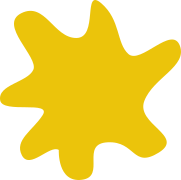
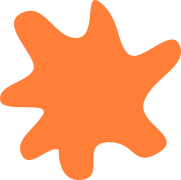
item goal rendering

diff --git a/src/main/java/org/rezrov/roboworld/Environment.java b/src/main/java/org/rezrov/roboworld/Environment.java
@@ -1,7 +1,9 @@
 package org.rezrov.roboworld;
 
 import java.util.Collection;
+import java.util.HashMap;
 import java.util.HashSet;
+import java.util.Map;
 
 /**
  * This class represents an environment in which a robot operates. This includes
@@ -30,11 +32,15 @@ public class Environment {
    private boolean[][] rightWalls;
    private boolean[][] bottomWalls;
 
+   private Map<Coord2D, Item> items = new HashMap<>();
+
+   private Map<Coord2D, Item> itemGoals = new HashMap<>();
+
    // Cell item contents (or NONE)
-   private Item[][] items;
+   // private Item[][] items;
 
    // Cell item goal (or NONE)
-   private Item[][] itemGoals;
+   // private Item[][] itemGoals;
 
    /**
     * Create an empty environment of the given size.
@@ -50,61 +56,70 @@ public class Environment {
       rightWalls = new boolean[width - 1][height];
       bottomWalls = new boolean[width][height - 1];
 
-      items = new Item[width][height];
-      itemGoals = new Item[width][height];
-      for (int x = 0; x < width; x++) {
-         for (int y = 0; y < height; y++) {
-            items[x][y] = itemGoals[x][y] = Item.NONE;
-         }
-      }
    }
 
    // Add an item goal location to
-   public void addItemGoalLocation(Item item, Coord2D location) {
-      if (itemGoals[location.x][location.y] != Item.NONE) {
+   public void addItemGoal(Coord2D location, Item item) {
+      if (itemGoals.putIfAbsent(location, item) != null) {
          // Since we should only be adding item goals at scenario setup, this is a hard
          // error.
-         throw new IllegalStateException("Attempt to put two item goals in the same location");
+         throw new AssertionError("Attempt to put two item goals in the same location");
       }
    }
 
-   public boolean addItemLocation(Item item, Coord2D location) {
-      if (items[location.x][location.y] != Item.NONE) {
-         // The robot can try to drop things in squares that already have a thing, and we
-         // want to crash the robot in that case, which is why this is a soft error.
-         return false;
+   // Attempt to put an item at the given location. If an item is already at that
+   // location, return false and leave the existing item unchanged. Otherwise,
+   // return
+   // true.
+   public boolean putItem(Coord2D location, Item item) {
+      return itemGoals.putIfAbsent(location, item) == null;
+   }
+
+   // Take the item at the given location and remove it from the environment.
+   // Returns NONE if there was no item at that location.
+   public Item takeItem(Coord2D location) {
+      Item ret = items.getOrDefault(location, Item.NONE);
+      if (ret != Item.NONE) {
+         items.remove(location);
       }
-      items[location.x][location.y] = item;
-      return true;
+      return ret;
    }
 
    public Item itemAt(Coord2D location) {
-      return items[location.x][location.y];
+      return items.getOrDefault(location, Item.NONE);
    }
 
-   // Returns true if all the items in the environment are
+   // Returns true iff all the items in the environment are at locations which
+   // are goals for that item.
    public boolean allItemsAtGoals() {
-      for (int x = 0; x < width; x++) {
-         for (int y = 0; y < height; y++) {
-            if (items[x][y] != Item.NONE &&
-                  items[x][y] != itemGoals[x][y]) {
-               return false;
-            }
+      // For each item, the corresponding itemGoal map should have an entry with
+      // the same item.
+      for (var entry : items.entrySet()) {
+         assert entry.getValue() != Item.NONE;
+         if (itemGoals.getOrDefault(entry.getKey(), Item.NONE) != entry.getValue()) {
+            return false;
          }
       }
       return true;
    }
 
+   // Returns true iff all the items goals contain corresponding items.
    public boolean allItemsGoalsHaveItems() {
-      for (int x = 0; x < width; x++) {
-         for (int y = 0; y < height; y++) {
-            if (itemGoals[x][y] != Item.NONE &&
-                  items[x][y] != itemGoals[x][y]) {
-               return false;
-            }
+      for (var entry : itemGoals.entrySet()) {
+         assert entry.getValue() != Item.NONE;
+         if (items.getOrDefault(entry.getKey(), Item.NONE) != entry.getValue()) {
+            return false;
          }
       }
       return true;
+   }
+
+   public Map<Coord2D, Item> items() {
+      return items;
+   }
+
+   public Map<Coord2D, Item> itemGoals() {
+      return itemGoals;
    }
 
    /** 

diff --git a/src/main/java/org/rezrov/roboworld/WorldPanel.java b/src/main/java/org/rezrov/roboworld/WorldPanel.java
@@ -36,10 +36,6 @@ public class WorldPanel extends JPanel {
    // Robot sprite.
    private PositionedWorldDrawable robotSprite;
 
-   // private PositionedWorldDrawable robotSprite = new
-   // WorldStaticSprite(Resources.ROBOT_SPRITE,
-   // Resources.ROBOT_SPRITE_CELL_SCALE);
-
    // Color used to fill in bars at the edges when the aspect ratio isn't perfect.
    private Color letterboxColor;
 
@@ -194,6 +190,12 @@ public class WorldPanel extends JPanel {
       // For other rendering, the coordinate system has integer coordinates *centered*
       // in those cells.
       g.translate(.5f, .5f);
+
+      // Draw item goals onto the background.
+      for (var itemGoalEntry : env.itemGoals().entrySet()) {
+         Resources.drawImage(g, ItemResources.outlineDrawableFor(itemGoalEntry.getValue()), itemGoalEntry.getKey().asContinuous());
+      }
+
       cachedTransform = g.getTransform();
    }
 

diff --git a/src/main/java/org/rezrov/roboworld/Scenario.java b/src/main/java/org/rezrov/roboworld/Scenario.java
@@ -157,7 +157,11 @@ public class Scenario {
             "+ +-+ +\n" +
             "|     |\n" +
             "+-+-+-+\n");
+      e.addItemGoal(new Coord2D(0, 1), Item.BOUBA);
+      e.addItemGoal(new Coord2D(2, 2), Item.KIKI);
+
       Scenario ret = new Scenario(e, new DiscreteWorldPosition(2, 1, Direction.RIGHT));
+
       ret.addNoCrashGoal();
       ret.setGoalCells(Arrays.asList(new Coord2D(0, 0), new Coord2D(0, 1), new Coord2D(2, 1)));
       return ret;

diff --git a/src/main/java/org/rezrov/roboworld/Coord2D.java b/src/main/java/org/rezrov/roboworld/Coord2D.java
@@ -40,6 +40,10 @@ public class Coord2D
       }
    }
 
+   public ContinuousWorldPosition asContinuous() {
+      return new ContinuousWorldPosition(x, y, 0);
+   }
+
    @Override
    public String toString() {
       return "Coord (" + x + ", " + y + ")";
